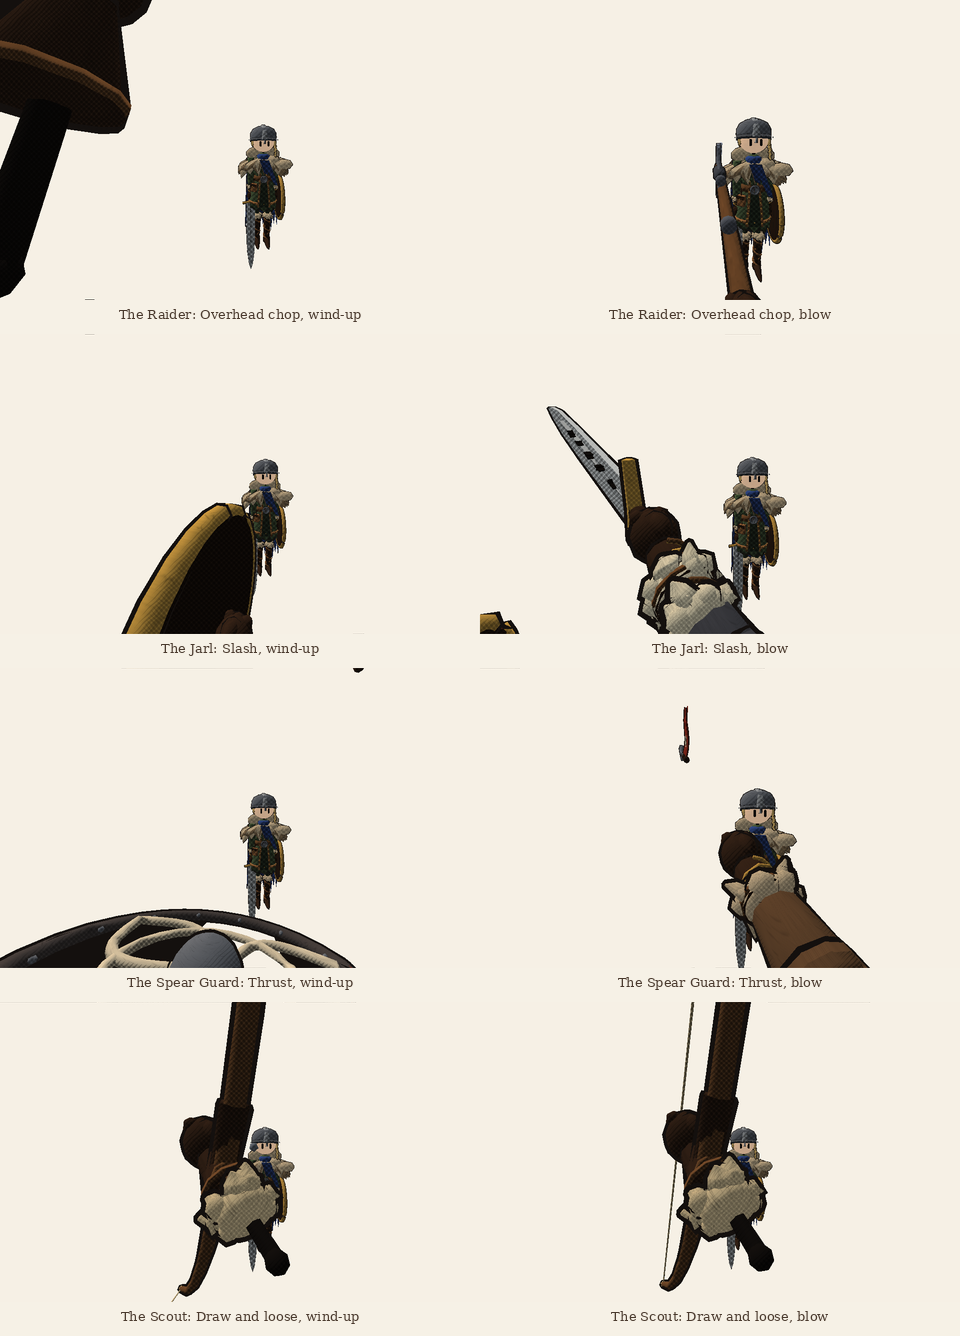
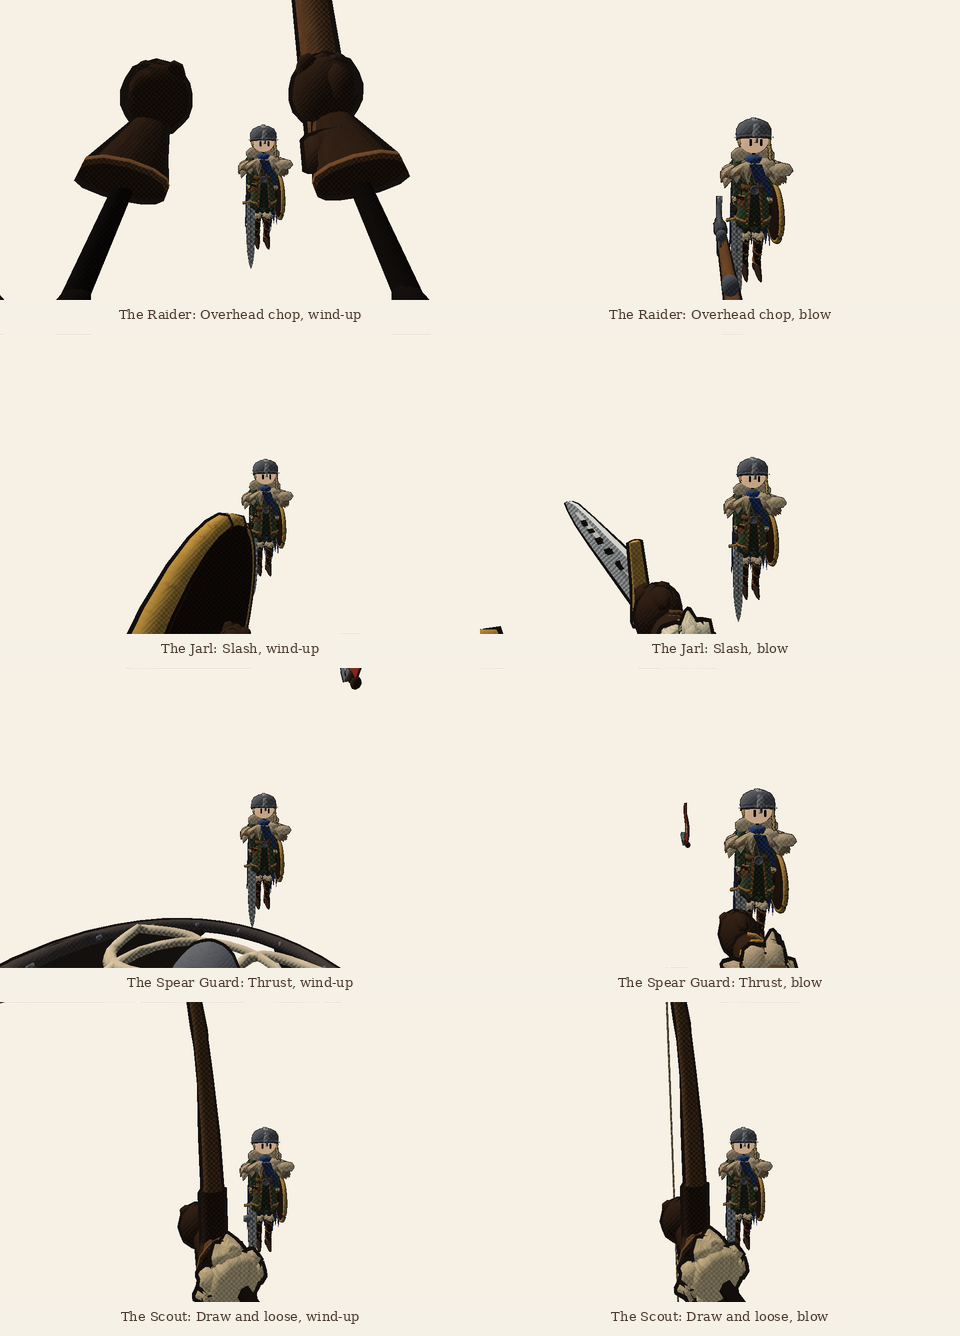
First-person swings: overhead wind-ups fold forward into view, low arms lift up
Claude-Session: https://claude.ai/code/session_01SCdejJ1UF8RUxAkkFhZXGU

diff --git a/OdinsCoin/Assets/Scripts/Characters/NpcHeroes.cs b/OdinsCoin/Assets/Scripts/Characters/NpcHeroes.cs
@@ -138,24 +138,52 @@ namespace OdinsCoin
         /// </summary>
         public const float FirstPersonRaise = 30f, FirstPersonShieldRaise = 12f;
 
-        /// <summary>The first-person lift for one arm, <paramref name="amount"/> 0..1, on top of whatever it's doing.</summary>
-        public static Quaternion FirstPersonLift(bool weaponArm, float amount)
+        /// <summary>Above this angle (degrees above straight ahead) a raised arm is folded forward, into view.</summary>
+        public const float FirstPersonFold = 20f, FirstPersonFoldKeep = 0.25f;
+
+        /// <summary>
+        /// Where an arm pointing at <paramref name="angle"/> (degrees in the body's side view: 0 straight ahead,
+        /// 90 up, 180 back over the head, -90 hanging down) is drawn in first person: lifted by up to
+        /// <paramref name="raise"/> when low, the lift fading out towards straight ahead, and anything raised
+        /// higher folded forward so an overhead wind-up stays in sight above your eyes.
+        /// </summary>
+        public static float FirstPersonAngle(float angle, float raise)
         {
-            return Quaternion.Euler(-(weaponArm ? FirstPersonRaise : FirstPersonShieldRaise) * amount, 0f, 0f);
+            if (angle <= FirstPersonFold)
+            {
+                float fade = Mathf.Clamp01((FirstPersonFold - angle) / (FirstPersonFold + 90f));
+                return angle + raise * fade;
+            }
+            return FirstPersonFold + (angle - FirstPersonFold) * FirstPersonFoldKeep;
+        }
+
+        /// <summary>The first-person turn for one arm (as a rotation in the body), <paramref name="amount"/> 0..1.</summary>
+        public static Quaternion FirstPersonLift(Quaternion arm, bool weaponArm, float amount)
+        {
+            var d = arm * Vector3.down;
+            float angle = Mathf.Atan2(d.y, d.z) * Mathf.Rad2Deg;
+            // Behind the shoulder and below it (a swing's back-swing low down) counts as hanging.
+            if (angle < -90f) angle += 360f;
+            if (angle > 270f) angle -= 360f;
+            float want = FirstPersonAngle(angle, weaponArm ? FirstPersonRaise : FirstPersonShieldRaise);
+            return Quaternion.Euler(-(want - angle) * amount, 0f, 0f);
         }
 
         /// <summary>The same lift on a pose given as joint rotations (the preview's poses).</summary>
         public static void FirstPersonArms(System.Collections.Generic.Dictionary<string, Quaternion> rot, float amount)
         {
             foreach (var j in new[] { Joints.LeftArm, Joints.RightArm })
-                rot[j] = FirstPersonLift(j == Joints.RightArm, amount) * (rot.ContainsKey(j) ? rot[j] : Quaternion.identity);
+            {
+                var r = rot.ContainsKey(j) ? rot[j] : Quaternion.identity;
+                rot[j] = FirstPersonLift(r, j == Joints.RightArm, amount) * r;
+            }
         }
 
         /// <summary>The same lift on the hero's arm bones in the game.</summary>
         public static void FirstPersonArms(VikingBuilder.Parts parts, float amount)
         {
-            if (parts.leftArm != null) parts.leftArm.localRotation = FirstPersonLift(false, amount) * parts.leftArm.localRotation;
-            if (parts.rightArm != null) parts.rightArm.localRotation = FirstPersonLift(true, amount) * parts.rightArm.localRotation;
+            if (parts.leftArm != null) parts.leftArm.localRotation = FirstPersonLift(parts.leftArm.localRotation, false, amount) * parts.leftArm.localRotation;
+            if (parts.rightArm != null) parts.rightArm.localRotation = FirstPersonLift(parts.rightArm.localRotation, true, amount) * parts.rightArm.localRotation;
         }
 
         /// <summary>

diff --git a/tools/tests/LogicTests.cs b/tools/tests/LogicTests.cs
@@ -114,6 +114,12 @@ public static class LogicTests
         var airV = Viking.Strafe(new Vector3(0f, 0f, 5f), Vector3.back, Viking.WalkSpeed, false, 0.1f);
         var drift = Viking.Strafe(new Vector3(0f, 0f, 5f), Vector3.zero, Viking.WalkSpeed, false, 0.1f);
         Check(airV.z > 4.5f && airV.z < 5f && drift.z == 5f, "in the air a jump keeps its momentum, with only a little steering");
+        Check(Mathf.Abs(HeroPose.FirstPersonAngle(-90f, 30f) - (-60f)) < 1e-3f && Mathf.Abs(HeroPose.FirstPersonAngle(20f, 30f) - 20f) < 1e-3f,
+            "in first person a hanging arm is lifted into view, the lift fading out as the arm comes up to straight ahead");
+        Check(HeroPose.FirstPersonAngle(170f, 30f) < 70f && HeroPose.FirstPersonAngle(170f, 30f) > HeroPose.FirstPersonAngle(90f, 30f),
+            "an overhead wind-up is folded forward above your eyes, still higher than an arm raised straight up would be");
+        var hanging = HeroPose.FirstPersonLift(Quaternion.identity, true, 1f) * Vector3.down;
+        Check(hanging.z > 0.4f && hanging.y < 0f, "the lift swings a hanging weapon arm forward, not back");
         var facer = new Locomotion();
         facer.Reset(Vector2.zero, 0f);
         for (int i = 0; i < 30; i++) { facer.Face(90f); facer.Step(new Vector2(1f, 0f), Viking.WalkSpeed, 1f / 60f); facer.Face(90f); }

diff --git a/OdinsCoin/CHARACTERS.md b/OdinsCoin/CHARACTERS.md
@@ -193,4 +193,4 @@ Alt bygges i kode (ingen modellfiler trengs). `tools/preview/render.sh` tegner e
   - **Bevegelse:** du går rett dit du trykker, også sidelengs og baklengs. Du kommer raskt opp i fart og stopper enda raskere. Et hopp beholder farten, og du kan bare styre litt i lufta.
   - **Kamp:** slagene treffer dit du ser. Våpenarmen er løftet fram i synsfeltet, så øks, sverd, spyd og bue krysser bildet når du slår. Skjoldarmen er løftet mindre, så skjoldet ikke skjuler det som er foran deg.
   - **Tredjeperson:** V bytter til kameraet bak helten og tilbake, og valget huskes.
-  - [ ] Egne førstepersonsslag, slik at overhoggene også synes i bildet mens du lader opp.
+  - [x] Førstepersonsslag: en arm som løftes over hodet blir brettet fram, så du ser hendene og skaftet over øynene mens du lader opp et overhogg. En arm som henger løftes fram, og løftet blir mindre jo nærmere rett fram armen peker.
